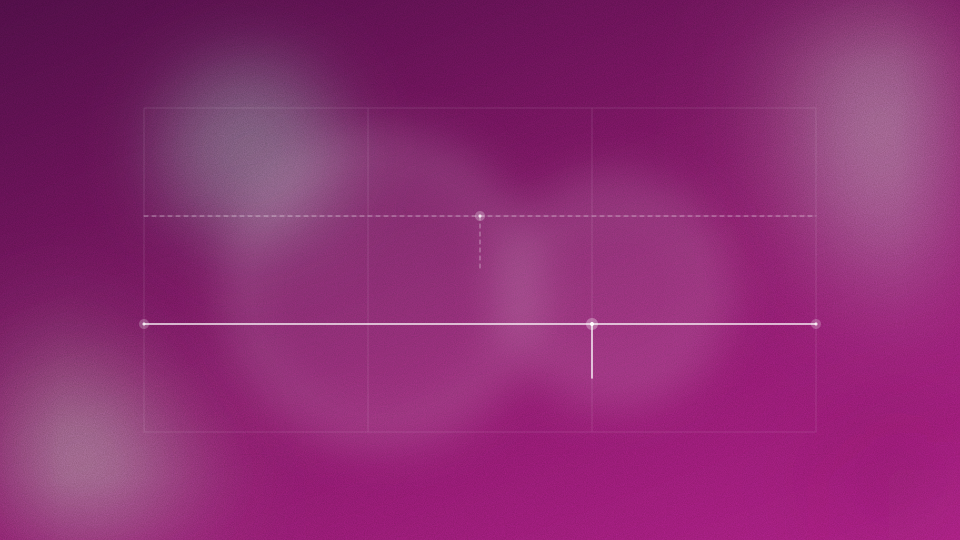
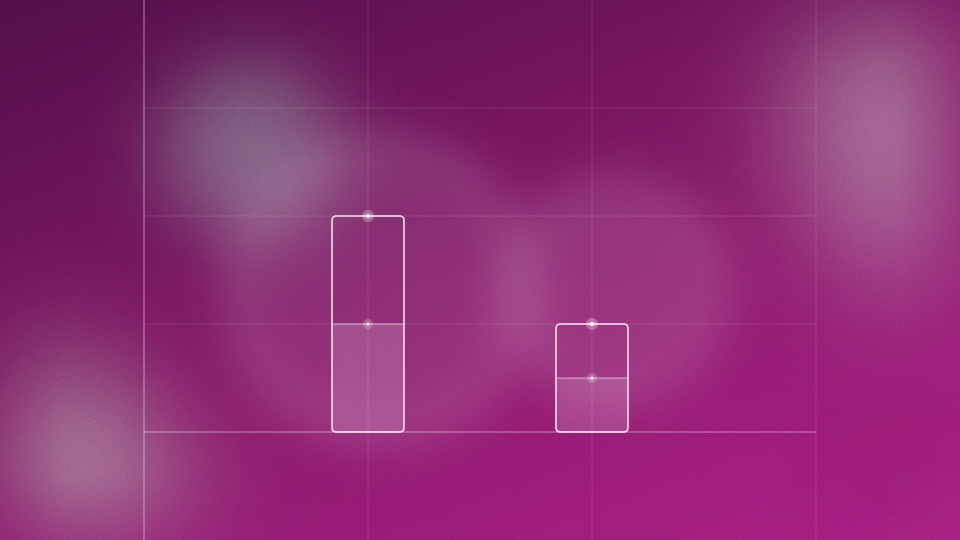
Revise bill-split article + calculator from review feedback
- Redraw the card thumbnail: replace the abstract split-line glyph with two
  unequal income bars, each with a proportional shaded "bill share" base, so
  the illustration clearly reads as two different incomes.
- Add two side-by-side reference tables in the article (50/50 imbalance and
  the proportional split) styled like the existing worked-example table, so
  readers can reference the numbers while reading the dense math paragraphs.
- Introduce a shared h4 heading level (global + prose) and use it for
  "Work it out in three steps:". Homepage h4s already set their own size.
- Redesign the calculator results table: white card, quiet header, hairline
  row dividers, per-partner color dots, mobile-friendly layout. Remove the
  "your fair share" highlight so the tool weighs both people evenly.
- Tighten the in-article product interstitial: shorter image container,
  reduced spacing between elements.

Claude-Session: https://claude.ai/code/session_01VRmQnfVr99fEfD5H7sdn75

diff --git a/src/styles/global.css b/src/styles/global.css
@@ -37,6 +37,9 @@ h1, h2, h3, h4, h5, h6 {
 h1 { font-size: var(--text-h1); }
 h2 { font-size: var(--text-h2); }
 h3 { font-size: var(--text-h3); }
+/* h4 is only ~2px larger than body text, so it leans on weight (not size) to
+   read as a heading — a compact sub-subheading for organizing long content. */
+h4 { font-size: var(--text-h4); font-weight: var(--weight-semibold); }
 
 a {
 	color: var(--color-link);
@@ -68,6 +71,12 @@ p {
 }
 
 .prose h3 {
+	margin-top: 1.5em;
+	margin-bottom: 0.5em;
+	scroll-margin-top: 4.5rem;
+}
+
+.prose h4 {
 	margin-top: 1.5em;
 	margin-bottom: 0.5em;
 	scroll-margin-top: 4.5rem;
@@ -143,14 +152,14 @@ p {
 .article-promo {
 	display: grid;
 	grid-template-columns: 1fr 2fr;
-	align-items: stretch;
-	gap: var(--space-lg);
+	align-items: center;
+	gap: var(--space-md);
 	margin: var(--space-lg) 0;
 }
 .article-promo-thumb {
 	display: block;
 	width: 100%;
-	aspect-ratio: 10 / 9;
+	aspect-ratio: 3 / 2;
 	border-radius: var(--radius-md);
 	background: var(--color-bg-panel);
 	overflow: hidden;
@@ -181,6 +190,15 @@ p {
 	font-size: var(--text-xs);
 	color: var(--color-text-muted);
 	margin: 0 0 var(--space-2xs);
+}
+/* Keep the in-body interstitial compact: tighter description leading and a
+   shorter gap before the CTA so the card doesn't tower over the surrounding
+   text. */
+.article-promo .product-desc {
+	line-height: var(--leading-snug);
+}
+.article-promo .product-cta {
+	margin-top: var(--space-sm);
 }
 @media (max-width: 600px) {
 	.article-promo {

diff --git a/src/styles/tokens.css b/src/styles/tokens.css
@@ -32,6 +32,12 @@
   --color-accent-info:         #196EDD;
   --color-accent-info-bg:      #EEF4FF;
 
+  /* Per-partner identity colors for couples tools — neutral, no value
+     judgment (mirrors the color-coded partner names in the couples template).
+     Never used to rank one option/method over another. */
+  --color-split-you:           #196EDD;
+  --color-split-partner:       #C2185B;
+
   /* Debt avalanche vs. snowball comparison: avalanche gets an identity color,
      snowball stays grayscale — neither implies "better," just distinguishes
      the two equally valid strategies. */
@@ -47,6 +53,7 @@
   --text-h1:        2.25rem;
   --text-h2:        1.5rem;
   --text-h3:        1.25rem;
+  --text-h4:        1.125rem;
   --text-body:      1rem;
   --text-body-lg:   1.25rem;
   --text-small:     0.9375rem;